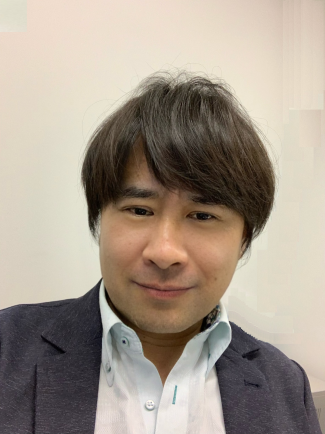
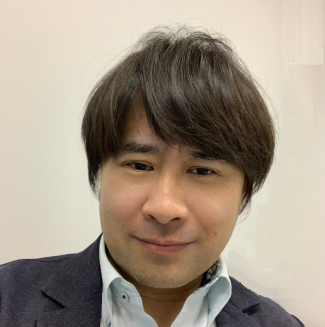
プロフィール文言・写真、開発実績、お知らせを更新
- プロフィール文（4段落に刷新、AI-DevContinuumの開発・提供に言及）
- プロフィール写真：シャツのボタンが見える下部が写り込んでいたため、
  上下をトリミングして目立たないように調整
- 開発実績：先頭に「企業専用AI開発OS「AI-DevContinuum」」を追加、
  末尾の「クラウドCRM 初期構築」を外し6件を維持
- お知らせのAI-DevContinuumの項目：テキストのみのプレースホルダーから、
  サービス画面と同じ画像（fig_hero_mockup.png）に差し替え

diff --git a/index.html b/index.html
@@ -358,6 +358,12 @@ footer a{color:#7fb2f0;text-decoration:none}
     <p class="lead">自社業務と支援先で稼働している仕組みです。数値は各ページに記載のものを載せています。</p>
 
     <div class="res">
+      <a href="ai-devcontinuum.html" class="res-card">
+        <div class="res-cat">システム開発</div>
+        <div class="res-t">企業専用AI開発OS「AI-DevContinuum」</div>
+        <p class="res-d">要求ヒアリングから要件定義・設計・実装・品質分析/管理まで、AIの下書きと人間の承認をひとつの基盤でつなぎます。</p>
+        <div class="res-n">5段階<small>で要求から品質管理まで一貫</small></div>
+      </a>
       <a href="marketing-ai-dashboard.html" class="res-card">
         <div class="res-cat">マーケティング</div>
         <div class="res-t">マーケティングAIダッシュボード</div>
@@ -389,12 +395,6 @@ footer a{color:#7fb2f0;text-decoration:none}
         <div class="res-note">近日 Apple Store 公開予定</div>
         <div class="res-n">会話だけ<small>で開発が進む</small></div>
       </a>
-      <a href="https://fkdkazu-commits.github.io/ai-efficiency-article/crm-initial-build.html" target="_blank" rel="noopener" class="res-card">
-        <div class="res-cat">CRM・営業管理</div>
-        <div class="res-t">クラウドCRM 初期構築（BtoB商社）</div>
-        <p class="res-d">手帳とExcelに散っていた営業情報を、標準機能で一元管理。基幹・EC・名刺管理とつなぎます。</p>
-        <div class="res-n">属人化を解消<small>し、案件を可視化</small></div>
-      </a>
     </div>
 
     <p class="res-more">
@@ -421,10 +421,7 @@ footer a{color:#7fb2f0;text-decoration:none}
     <div class="news-grid" id="newsGrid">
 
       <a href="ai-devcontinuum.html" class="news-card">
-        <div class="news-thumb news-thumb--new">
-          <span class="news-thumb-tag">新着</span>
-          <span class="news-thumb-text">企業専用AI開発OS<br>AI-DevContinuum</span>
-        </div>
+        <img class="news-thumb-img" src="news-devcontinuum.png" alt="企業専用AI開発OS AI-DevContinuum" loading="lazy" width="720" height="514">
         <span class="news-card-date">2026.9.16</span>
         <div class="news-card-title">企業専用AI開発OS「AI-DevContinuum」の紹介ページを公開しました</div>
       </a>
@@ -613,12 +610,16 @@ footer a{color:#7fb2f0;text-decoration:none}
         <div class="pf-n">福田 和弘</div>
         <div class="pf-r">AI/DX推進支援 ・ SEO全般 ・ 法人／個別サポート</div>
         <p class="pf-b">
-          IT企業にてエンジニアとマネジメント職を20年以上経験し、DX事業の立ち上げを担当。
-          現在はClaude CodeやCodexをはじめとしたAIツールを活用した業務自動化支援を行っています。
+          IT企業でエンジニア・PMとして20年以上、システム開発やプロジェクトマネジメント、DX事業の立ち上げに携わってきました。
         </p>
         <p class="pf-b">
-          自社業務で実際に運用している仕組みをベースに、中小企業・個人事業主向けに実装。
-          SEO記事自動化では約80%のコスト削減を実現するなど、現場で動く仕組みづくりを得意としています。
+          現在は、Claude CodeやCodexなどのAIツールを活用し、企業や個人事業主のさまざまな業務をAIで進化させる支援を行っています。
+        </p>
+        <p class="pf-b">
+          代表プロダクトとして、システム開発のライフサイクル全体をAIでつなぐ企業専用AI開発OS「AI-DevContinuum」を開発・提供。
+        </p>
+        <p class="pf-b">
+          業務自動化、AI活用、システム開発、SEOなど、領域を限定せず、課題に合わせてAIを活用した仕組みを企画・設計・実装まで一貫して支援しています。
         </p>
         <div class="tags">
           <span class="tag">Claude Code</span><span class="tag">Codex</span><span class="tag">Copilot Studio</span>
